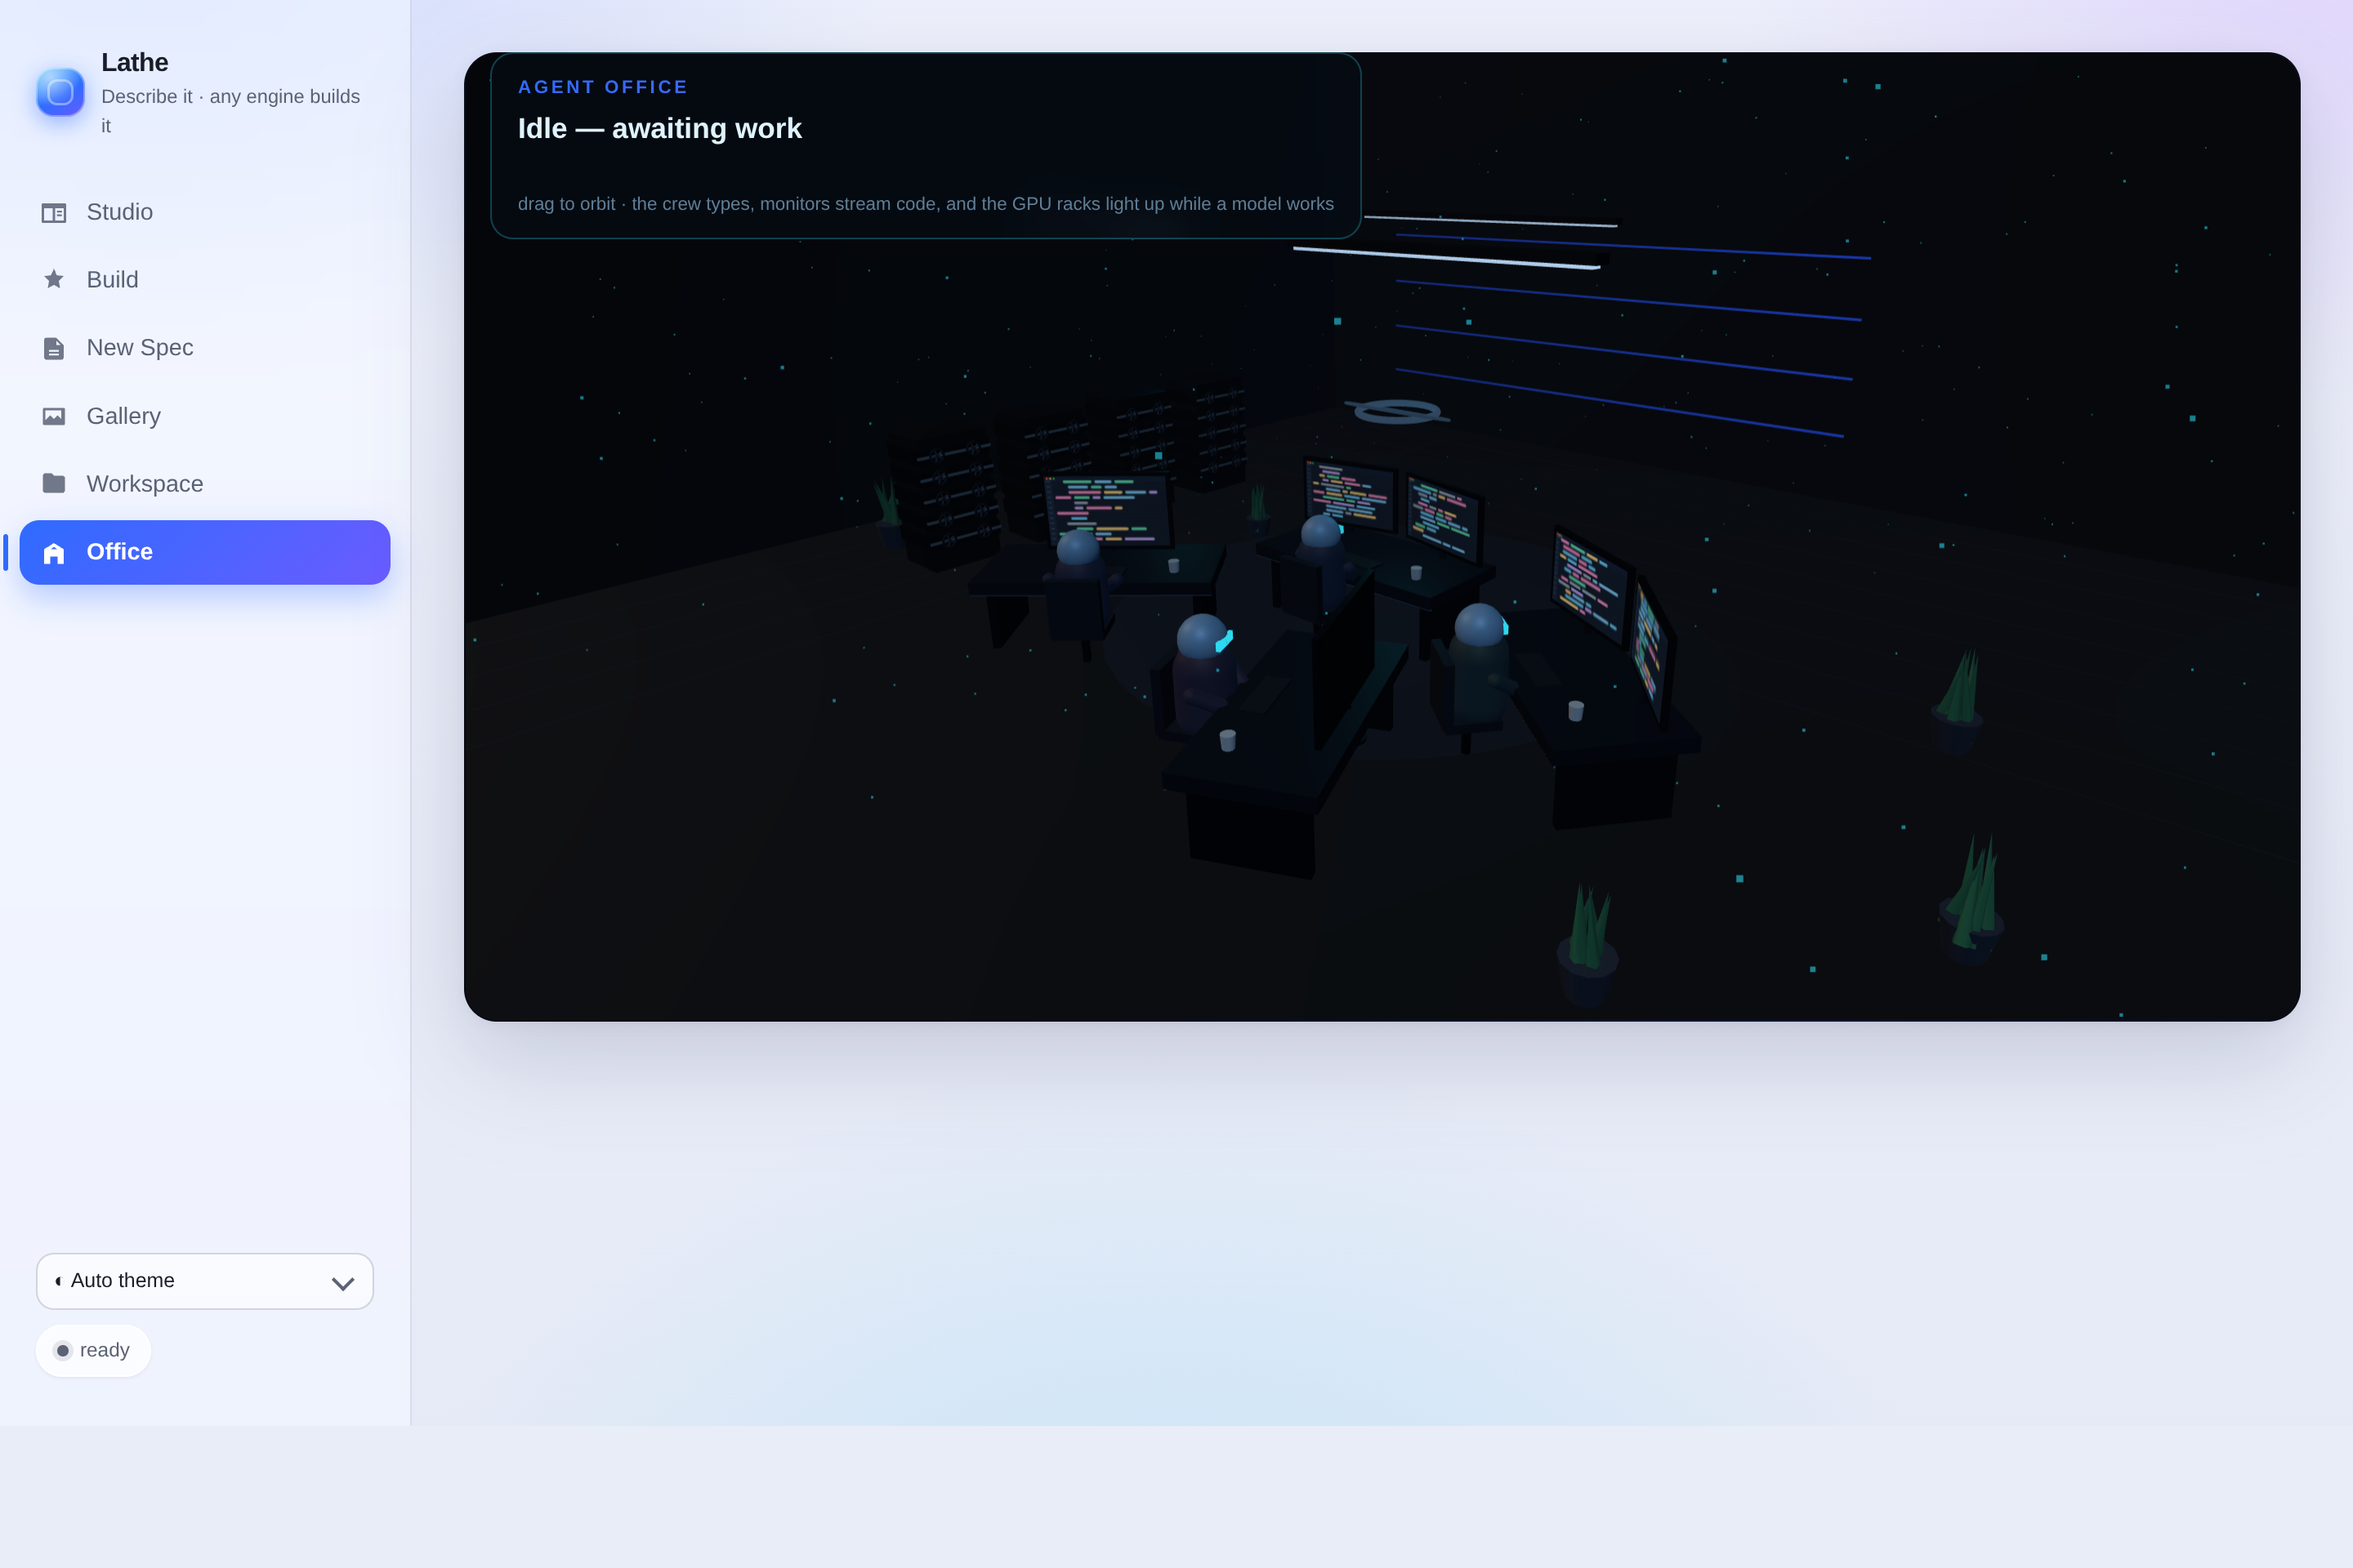
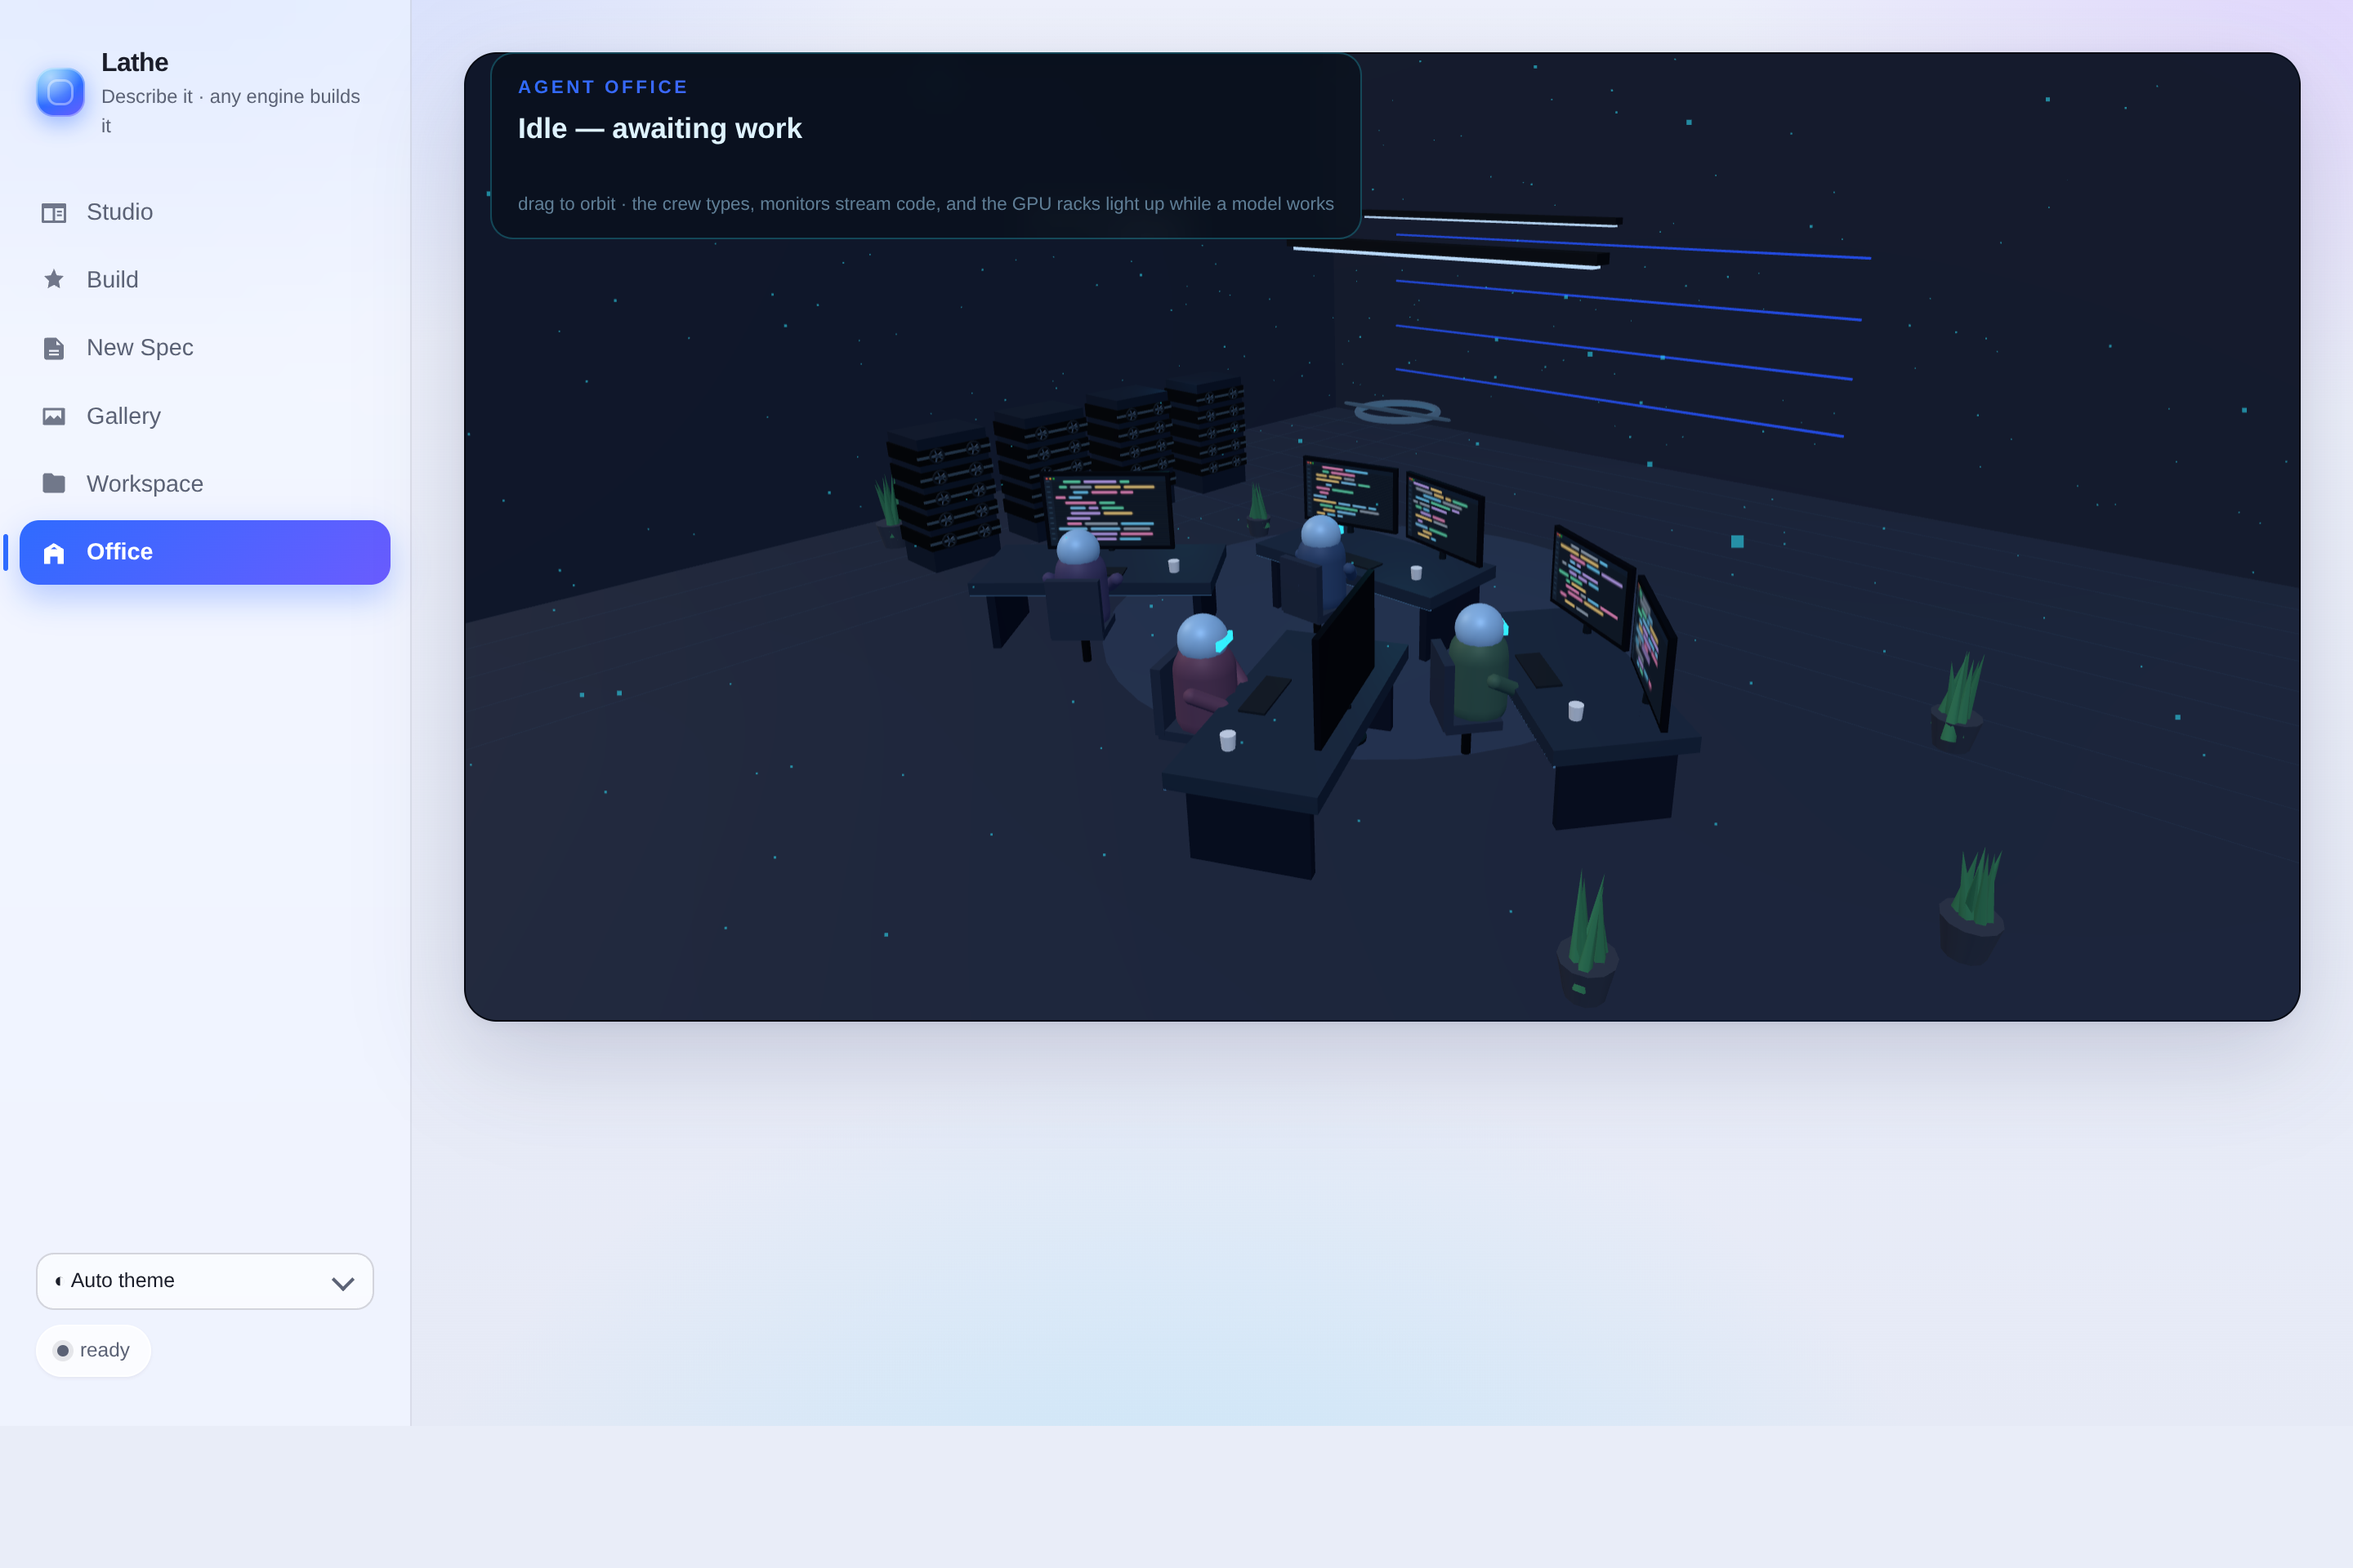
Brighten the 3D office scene
The office read too dark. Added a hemisphere daylight light + stronger ambient,
key, warm and dual camera-side fill lights; lightened the fog, floor (now navy
with a brighter grid), walls, desks, chairs, rig cabinets, and gave the crew
distinct lighter suit colors so each agent reads clearly. Keeps the premium
mood while making the room legible. Refreshed the office screenshot.

Claude-Session: https://claude.ai/code/session_01R36h5csTSgqusFGPcqSSCy

diff --git a/webui/office.js b/webui/office.js
@@ -134,7 +134,7 @@ function makeAgent(suitColor = 0x1b2740) {
 
 function makeChair() {
   const g = new THREE.Group();
-  const seatMat = mat({ color: 0x141d2c, roughness: 0.6, metalness: 0.3 });
+  const seatMat = mat({ color: 0x26344f, roughness: 0.6, metalness: 0.3 });
   const seat = new THREE.Mesh(new THREE.BoxGeometry(0.6, 0.1, 0.56), seatMat);
   seat.position.y = 0.52;
   const back = new THREE.Mesh(new THREE.BoxGeometry(0.6, 0.7, 0.1), seatMat);
@@ -146,15 +146,15 @@ function makeChair() {
 }
 
 // A workstation: desk, chair, agent, one or two code monitors, a mug.
-function makeWorkstation({ monitors = 2, suit = 0x1b2740, deskColor = 0x111c2b } = {}) {
+function makeWorkstation({ monitors = 2, suit = 0x2c4163, deskColor = 0x243650 } = {}) {
   const g = new THREE.Group();
-  const desk = new THREE.Mesh(new THREE.BoxGeometry(2.9, 0.16, 1.35), mat({ color: deskColor, roughness: 0.5, metalness: 0.45 }));
+  const desk = new THREE.Mesh(new THREE.BoxGeometry(2.9, 0.16, 1.35), mat({ color: deskColor, roughness: 0.5, metalness: 0.4 }));
   desk.position.y = 0.84;
   // desk edge light
-  const edge = new THREE.Mesh(new THREE.BoxGeometry(2.9, 0.02, 0.02), mat({ color: 0x07101c, emissive: 0x1b3a66, emissiveIntensity: 0.8 }));
+  const edge = new THREE.Mesh(new THREE.BoxGeometry(2.9, 0.02, 0.02), mat({ color: 0x07101c, emissive: 0x3a6c9a, emissiveIntensity: 1.0 }));
   edge.position.set(0, 0.76, 0.66);
   for (const dx of [-1.25, 1.25]) {
-    const leg = new THREE.Mesh(new THREE.BoxGeometry(0.1, 0.84, 1.1), mat({ color: 0x0b131e, metalness: 0.6, roughness: 0.4 }));
+    const leg = new THREE.Mesh(new THREE.BoxGeometry(0.1, 0.84, 1.1), mat({ color: 0x1a2640, metalness: 0.6, roughness: 0.4 }));
     leg.position.set(dx, 0.42, 0); g.add(leg);
   }
   g.add(desk, edge);
@@ -192,7 +192,7 @@ function makeWorkstation({ monitors = 2, suit = 0x1b2740, deskColor = 0x111c2b }
 // A GPU server rack: cabinet, glowing cards, spinning fans.
 function makeRig() {
   const g = new THREE.Group();
-  const cabinet = new THREE.Mesh(new THREE.BoxGeometry(1.05, 2.0, 0.85), mat({ color: 0x0c1622, roughness: 0.5, metalness: 0.7 }));
+  const cabinet = new THREE.Mesh(new THREE.BoxGeometry(1.05, 2.0, 0.85), mat({ color: 0x1c2c46, roughness: 0.5, metalness: 0.6 }));
   cabinet.position.y = 1.0;
   g.add(cabinet);
   const cards = [], fans = [];
@@ -263,7 +263,7 @@ function init(canvas) {
   renderer.outputColorSpace = THREE.SRGBColorSpace;
 
   const scene = new THREE.Scene();
-  scene.fog = new THREE.FogExp2(0x05080f, 0.04);
+  scene.fog = new THREE.FogExp2(0x0d1626, 0.022);
 
   const camera = new THREE.PerspectiveCamera(50, 1, 0.1, 120);
   camera.position.set(8.2, 5.6, 9.6);
@@ -272,25 +272,27 @@ function init(canvas) {
   const root = new THREE.Group();
   scene.add(root);
 
-  // ── lighting: cool ambient + warm key + cyan accent + side rim + front fill ──
-  scene.add(new THREE.AmbientLight(0x33507a, 0.85));
-  const key = new THREE.DirectionalLight(0xbfe6ff, 0.8); key.position.set(5, 9, 6); scene.add(key);
-  const warm = new THREE.DirectionalLight(0xffd9a8, 0.45); warm.position.set(-7, 5, 3); scene.add(warm);
-  // soft fill from the camera side so the crew & desks aren't silhouettes
-  const fill = new THREE.PointLight(0xcfe2ff, 0.9, 26); fill.position.set(4, 4.5, 8); scene.add(fill);
+  // ── lighting: bright sky/ground hemi + ambient + warm key + accents + fills ──
+  scene.add(new THREE.HemisphereLight(0xdfeaff, 0x2a3550, 1.15)); // soft global daylight
+  scene.add(new THREE.AmbientLight(0x6f86b0, 1.0));
+  const key = new THREE.DirectionalLight(0xe9f4ff, 1.25); key.position.set(5, 9, 6); scene.add(key);
+  const warm = new THREE.DirectionalLight(0xffe6c2, 0.7); warm.position.set(-7, 5, 3); scene.add(warm);
+  // soft fills from the camera side so the crew & desks read clearly
+  const fill = new THREE.PointLight(0xd8e8ff, 1.4, 34); fill.position.set(4, 4.5, 8); scene.add(fill);
+  const fill2 = new THREE.PointLight(0xcfe0ff, 1.0, 30); fill2.position.set(-4, 4, 7); scene.add(fill2);
   const accent = new THREE.PointLight(0x2ee6ff, 1.5, 22); accent.position.set(0, 2.6, -0.4); scene.add(accent);
   const rigLight = new THREE.PointLight(0x2ee6ff, 0.9, 18); rigLight.position.set(-6, 2.4, -1.5); scene.add(rigLight);
 
   // ── floor + neon grid + soft rug ──
-  const floor = new THREE.Mesh(new THREE.PlaneGeometry(46, 46), mat({ color: 0x070c15, roughness: 0.9, metalness: 0.1 }));
+  const floor = new THREE.Mesh(new THREE.PlaneGeometry(46, 46), mat({ color: 0x1a2740, roughness: 0.82, metalness: 0.12 }));
   floor.rotation.x = -Math.PI / 2; root.add(floor);
-  const grid = new THREE.GridHelper(46, 46, 0x2ee6ff, 0x12304a);
-  grid.material.transparent = true; grid.material.opacity = 0.3; root.add(grid);
-  const rug = new THREE.Mesh(new THREE.CircleGeometry(3.6, 40), mat({ color: 0x0d1a2b, roughness: 0.95 }));
+  const grid = new THREE.GridHelper(46, 46, 0x5fd0ff, 0x2a4a6a);
+  grid.material.transparent = true; grid.material.opacity = 0.35; root.add(grid);
+  const rug = new THREE.Mesh(new THREE.CircleGeometry(3.6, 40), mat({ color: 0x223451, roughness: 0.92 }));
   rug.rotation.x = -Math.PI / 2; rug.position.y = 0.01; root.add(rug);
 
   // ── back + side walls with neon strips ──
-  const wallMat = mat({ color: 0x070b12, roughness: 0.95, metalness: 0.05 });
+  const wallMat = mat({ color: 0x18223a, roughness: 0.9, metalness: 0.06 });
   const backWall = new THREE.Mesh(new THREE.PlaneGeometry(46, 10), wallMat);
   backWall.position.set(0, 5, -9); root.add(backWall);
   const sideWall = new THREE.Mesh(new THREE.PlaneGeometry(46, 10), wallMat);
@@ -312,10 +314,10 @@ function init(canvas) {
   // ── workstations (a small crew) ──
   const screens = [], agents = [];
   const stations = [
-    { pos: [0, 0, 0.2], rot: 0, opts: { monitors: 2, suit: 0x1b2740 } },          // hero, faces camera-ish
-    { pos: [3.6, 0, 1.4], rot: -0.7, opts: { monitors: 2, suit: 0x243a2c } },
-    { pos: [2.0, 0, 3.6], rot: -1.15, opts: { monitors: 1, suit: 0x3a2438 } },
-    { pos: [-2.4, 0, 2.6], rot: 0.7, opts: { monitors: 1, suit: 0x2a2440 } },
+    { pos: [0, 0, 0.2], rot: 0, opts: { monitors: 2, suit: 0x33507e } },          // hero, faces camera-ish
+    { pos: [3.6, 0, 1.4], rot: -0.7, opts: { monitors: 2, suit: 0x3a6450 } },
+    { pos: [2.0, 0, 3.6], rot: -1.15, opts: { monitors: 1, suit: 0x6a4060 } },
+    { pos: [-2.4, 0, 2.6], rot: 0.7, opts: { monitors: 1, suit: 0x4a4070 } },
   ];
   let hero = null;
   for (const st of stations) {
